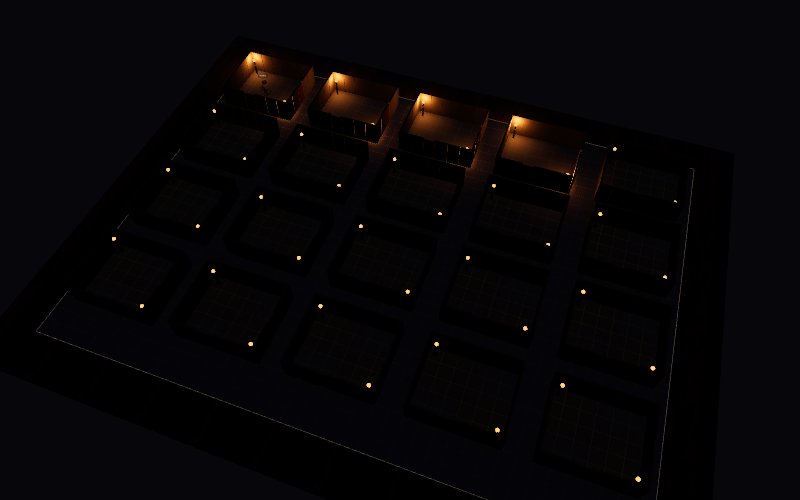
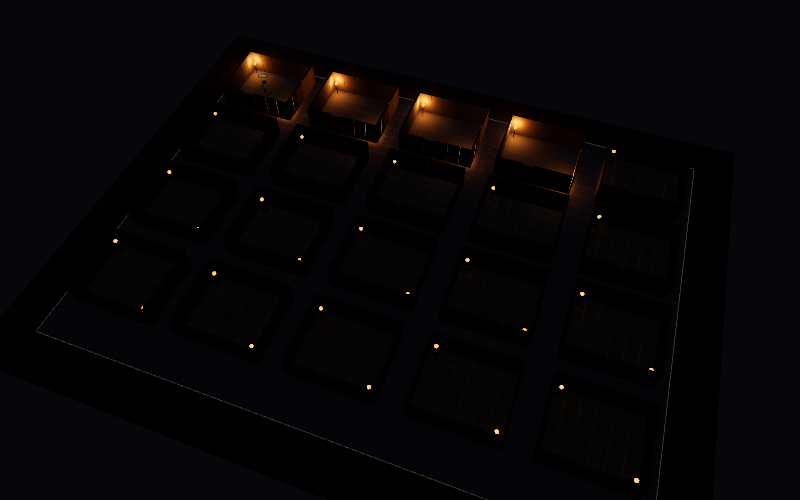
M62: seat light fixtures on the sconces and braziers they belong to (#367)
A light on a sconce or brazier prop draws only its flame, on the prop's top
(its model's bounds, scaled with the prop; relit when the model arrives),
and hangs its pool light there, so the prop is the fixture and a brazier's
bowl is lit from inside again. Picking by the flame is unchanged. Goldens of
ref-1 and ref-6 re-baselined; m62 look metrics and strip re-run.

diff --git a/src/lib/tabletop/lighting.ts b/src/lib/tabletop/lighting.ts
@@ -9,13 +9,33 @@ import * as THREE from 'three/webgpu';
 import { gridToWorld, type SquareGrid } from '$lib/game/grid';
 import { lightLevels, type Ambient, type Light, type LightSource } from '$lib/game/lights';
 import type { Blockers } from '$lib/game/objects';
+import type { Prop } from '$lib/game/props';
 import type { Ground } from './ground';
+import { modelNow } from './models';
 
 /** Real point lights available. Fixed so three.js never recompiles shaders as lights come and go. */
 const POOL_SIZE = 8;
 const FIXTURE_HEIGHT = 1.5;
-/** A pool light's height above the floor: just above its fixture's flame. */
-const LAMP_HEIGHT = FIXTURE_HEIGHT + 0.1;
+/** A pool light's height above its flame. */
+const ABOVE_FLAME = 0.1;
+/**
+ * Props that are a light's fixture themselves: a light on one draws only its flame, on the
+ * prop's top, and hangs its pool light there (#367, until #232 gives lights fixtures by kind).
+ */
+const HOLDS_LIGHT = new Set(['sconce', 'brazier']);
+/** A seat's height until its model, and so its size, has loaded. */
+const SEAT_FALLBACK = 1;
+
+/** Where a light's flame sits on the light-holding props, by cell index: the prop's top. */
+export function lightSeats(grid: SquareGrid, props: readonly Prop[]): Map<number, number> {
+	const seats = new Map<number, number>();
+	for (const p of props) {
+		if (!HOLDS_LIGHT.has(p.assetId)) continue;
+		const top = modelNow(p.assetId)?.entry.bounds.max[1] ?? SEAT_FALLBACK;
+		seats.set(p.pos.y * grid.width + p.pos.x, top * p.scale);
+	}
+	return seats;
+}
 
 interface Preset {
 	background: number;
@@ -94,7 +114,8 @@ export class LightingLayer {
 		blocked: Blockers,
 		visible: Uint8Array | null,
 		ground: Ground | null = null,
-		dark: Uint8Array | null = null
+		dark: Uint8Array | null = null,
+		seats: ReadonlyMap<number, number> = new Map()
 	): void {
 		const preset = PRESETS[ambient];
 		this.ambient = ambient;
@@ -108,8 +129,8 @@ export class LightingLayer {
 		this.base.lamp.intensity = preset.lamp;
 
 		this.updateOverlay(grid, preset.dark, sources, blocked, visible, dark);
-		this.updatePool(grid, sources, ambient, ground);
-		this.updateFixtures(grid, lights, ground);
+		this.updatePool(grid, sources, ambient, ground, seats);
+		this.updateFixtures(grid, lights, ground, seats);
 	}
 
 	/** Id of the light fixture under the ray, if any. */
@@ -191,7 +212,8 @@ export class LightingLayer {
 		grid: SquareGrid,
 		sources: readonly LightSource[],
 		ambient: Ambient,
-		ground: Ground | null
+		ground: Ground | null,
+		seats: ReadonlyMap<number, number>
 	): void {
 		const chosen = [...sources].sort((a, b) => b.radius - a.radius).slice(0, POOL_SIZE);
 		const strength = ambient === 'day' ? 0.5 : 1;
@@ -203,7 +225,8 @@ export class LightingLayer {
 			}
 			const w = gridToWorld(grid, s.pos);
 			const floor = ground?.floorY(s.pos) ?? 0;
-			light.position.set(w.x, floor + LAMP_HEIGHT * grid.cellSize, w.z);
+			const flame = seats.get(s.pos.y * grid.width + s.pos.x) ?? FIXTURE_HEIGHT;
+			light.position.set(w.x, floor + (flame + ABOVE_FLAME) * grid.cellSize, w.z);
 			light.color.set(s.color);
 			light.distance = (s.radius + 1.5) * grid.cellSize;
 			// Raised to human height (#152), a lamp lights the floor a cell or two away about as
@@ -250,7 +273,12 @@ export class LightingLayer {
 		return true;
 	}
 
-	private updateFixtures(grid: SquareGrid, lights: readonly Light[], ground: Ground | null): void {
+	private updateFixtures(
+		grid: SquareGrid,
+		lights: readonly Light[],
+		ground: Ground | null,
+		seats: ReadonlyMap<number, number>
+	): void {
 		const seen = new Set<string>();
 		for (const l of lights) {
 			seen.add(l.id);
@@ -263,6 +291,10 @@ export class LightingLayer {
 			const w = gridToWorld(grid, l.pos);
 			fixture.position.set(w.x, ground?.floorY(l.pos) ?? 0, w.z);
 			fixture.scale.setScalar(grid.cellSize);
+			// On a sconce or brazier the prop is the post: only the flame, on its top.
+			const seat = seats.get(l.pos.y * grid.width + l.pos.x);
+			fixture.children[0].visible = seat === undefined;
+			fixture.children[1].position.y = seat ?? FIXTURE_HEIGHT;
 			const flame = fixture.children[1] as THREE.Mesh<
 				THREE.SphereGeometry,
 				THREE.MeshStandardMaterial

diff --git a/src/lib/tabletop/lighting.svelte.spec.ts b/src/lib/tabletop/lighting.svelte.spec.ts
@@ -1,0 +1,74 @@
+// Lights on the props that hold them (#367): a light on a sconce or brazier
+// draws only its flame, on the prop's top, and hangs its pool light there.
+
+import * as THREE from 'three/webgpu';
+import { describe, expect, it } from 'vitest';
+import { gridToWorld, type SquareGrid } from '$lib/game/grid';
+import { lightSources, type Light } from '$lib/game/lights';
+import type { Prop } from '$lib/game/props';
+import { LightingLayer, lightSeats } from './lighting';
+import { loadModel } from './models';
+import { createSceneLights } from './scene-lights';
+
+const grid: SquareGrid = { kind: 'square', cellSize: 1, width: 4, height: 4 };
+const light = (id: string, x: number, y: number): Light => ({
+	id,
+	pos: { x, y },
+	radius: 3,
+	color: '#ffa04d',
+	on: true
+});
+const lights = [light('seated', 1, 1), light('standing', 3, 3)];
+const props: Prop[] = [{ id: 'b', assetId: 'brazier', pos: { x: 1, y: 1 }, rotation: 0, scale: 1 }];
+
+function layerWith(seats: Map<number, number>) {
+	const scene = new THREE.Scene();
+	const layer = new LightingLayer({ ...createSceneLights(scene), scene });
+	layer.update(grid, 'dark', lights, lightSources(lights, []), new Set(), null, null, null, seats);
+	return layer;
+}
+
+/** The fixture group drawn for a light. */
+function fixtureOf(layer: LightingLayer, id: string): THREE.Object3D {
+	const found = layer.group.children.find((o) => o.userData.lightId === id);
+	if (!found) throw new Error(`no fixture for ${id}`);
+	return found;
+}
+
+describe('lights on the props that hold them', () => {
+	it('seat on the prop: no post, the flame and the pool light on its top', () => {
+		const seats = lightSeats(grid, props);
+		const top = seats.get(1 * grid.width + 1)!;
+		expect(top).toBeGreaterThan(0);
+		const layer = layerWith(seats);
+
+		const seated = fixtureOf(layer, 'seated');
+		expect(seated.children[0].visible).toBe(false);
+		expect(seated.children[1].position.y).toBeCloseTo(top);
+		const standing = fixtureOf(layer, 'standing');
+		expect(standing.children[0].visible).toBe(true);
+		expect(standing.children[1].position.y).toBeCloseTo(1.5);
+
+		const pool = layer.group.children.filter(
+			(o): o is THREE.PointLight => o instanceof THREE.PointLight && o.intensity > 0
+		);
+		const w = gridToWorld(grid, { x: 1, y: 1 });
+		const over = pool.find((l) => l.position.x === w.x && l.position.z === w.z);
+		expect(over?.position.y).toBeCloseTo(top + 0.1);
+	});
+
+	it("take the prop's size from its model once loaded, scaled with the prop", async () => {
+		const model = await loadModel('brazier');
+		const height = model!.entry.bounds.max[1];
+		const scaled = [{ ...props[0], scale: 1.5 }];
+		expect(lightSeats(grid, scaled).get(1 * grid.width + 1)).toBeCloseTo(height * 1.5);
+	});
+
+	it('are still picked by their flame', () => {
+		const layer = layerWith(lightSeats(grid, props));
+		layer.group.updateMatrixWorld(true);
+		const w = gridToWorld(grid, { x: 1, y: 1 });
+		const ray = new THREE.Raycaster(new THREE.Vector3(w.x, 10, w.z), new THREE.Vector3(0, -1, 0));
+		expect(layer.pick(ray)).toBe('seated');
+	});
+});

diff --git a/src/lib/tabletop/renderer.ts b/src/lib/tabletop/renderer.ts
@@ -30,7 +30,7 @@ import { FloorLayer } from './floor';
 import { FogLayer, playerVisible, type FogMode } from './fog';
 import { groundFor, type Ground } from './ground';
 import { labelFontReady } from './label-font';
-import { LightingLayer } from './lighting';
+import { LightingLayer, lightSeats } from './lighting';
 import { frameOverview, warmUp } from './warmup';
 import { advanceNodeFrame, createNodeRenderer, FrameLoop, watchReducedMotion } from './loop';
 import { benchmark, instrument, PerfRecorder, rendererStats, timeGpuFrames } from './perf';
@@ -85,7 +85,7 @@ export async function createTabletop(
 	/** A model arrived: warm up its shaders, then draw it (shadows too). */
 	const onModel = () => {
 		shadowsDirty = warmPending = true;
-		requestRender();
+		refreshLighting(); // a sconce's or brazier's size seats its light's flame
 	};
 	/** Something new needs its shaders compiled before the next frame (see warmup.ts). */
 	let warmPending = true;
@@ -166,7 +166,8 @@ export async function createTabletop(
 		const blocked = obstaclesFor(grid, objects, props, levels, floor);
 		const visible = playerVisible(fog, mode, size);
 		const { ambient, lights } = lightState;
-		lighting.update(grid, ambient, lights, sources, blocked, visible, ground, darkness);
+		const seats = lightSeats(grid, props);
+		lighting.update(grid, ambient, lights, sources, blocked, visible, ground, darkness, seats);
 		// Raised ground under fog and darkness, by the same rules as the flat overlays.
 		if (levels) terrainLayer.shade(terrainShade(size, lighting.cellBrightness, fog, mode), levels);
 	}

diff --git a/docs/LOOK.md b/docs/LOOK.md
@@ -189,27 +189,31 @@ within 0.009 of v0 (see `docs/RENDERING.md`), so what moved below is the scale.
 
 | Reference | m61   | m62   |
 | --------- | ----- | ----- |
-| 1         | 0.171 | 0.179 |
+| 1         | 0.171 | 0.169 |
 | 2         | 0.293 | 0.284 |
 | 3         | 0.130 | 0.137 |
-| 4         | 0.148 | 0.157 |
-| 6         | 0.214 | 0.228 |
+| 4         | 0.148 | 0.160 |
+| 6         | 0.214 | 0.245 |
 | 7         | 0.136 | 0.115 |
 | 8         | 0.199 | 0.193 |
 
 - **Ref 1's pose pulled back** from distance 4.5 to 6 (owner, milestone 62): at human height the
   minis and their labels overflowed the frame.
-- **Closer on refs 2, 7 and 8.** Walls and minis at human height fill more of the frame the way
-  the references do.
-- **Further on the night pairings (refs 1, 3, 4 and 6), by 0.007–0.014.** Lamps now hang 1.6 u
-  up instead of 1 u, so the floor right under them is dimmer and the torch-lit centres of these
-  close shots darker, against references that are brighter there. The lighting milestone (#115)
-  moves these, not the scale.
-- **Seen in the strip, left for later:** a light's fixture (a post with a flame at 1.5 u) stands
-  on top of props that already are the light (the braziers of ref 6, the sconce of ref 1), and
-  their bowls are no longer lit from inside; #367 seats those flames on their props until #232
-  gives every light a fixture of its kind. The monastery's low golden looks at the wall of Oswin's cell, since a low camera
-  can't see over 2 u walls; dithering occluders between the camera and the minis (#283) fixes it.
+- **Lights seated on their props (#367).** A light on a sconce or brazier draws only its flame, on
+  the prop's top, and hangs its pool light there, so ref 6's braziers are lit from inside again and
+  ref 1's torch stand carries its flame. Until #232 gives every light a fixture of its kind.
+- **Closer on refs 1, 2, 7 and 8.** Walls and minis at human height fill more of the frame the
+  way the references do.
+- **Further on refs 3 and 4, by 0.007–0.012.** Lamps elsewhere hang 1.6 u up instead of 1 u, so
+  the floor right under them is dimmer, against references that are brighter there. The lighting
+  milestone (#115) moves these, not the scale.
+- **Further on ref 6, by 0.031, though its braziers read as in m61.** The taller walls, lit orange
+  by the braziers, now fill more of the frame: median L 0.258 and chroma 0.075 against the
+  reference's 0.200 and 0.035 (m61: 0.192 and 0.057). Cooler, dimmer night light (#115, #238)
+  moves it.
+- **Seen in the strip, left for later:** the monastery's low golden looks at the wall of Oswin's
+  cell, since a low camera can't see over 2 u walls; dithering occluders between the camera and
+  the minis (#283) fixes it.
 
 ## Target palettes
 
